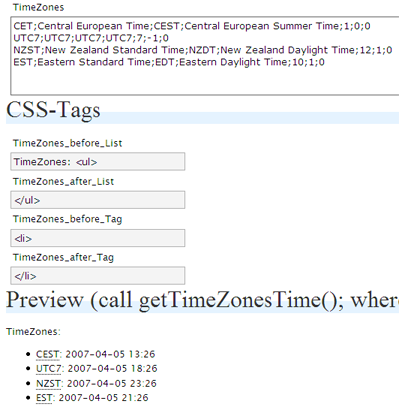
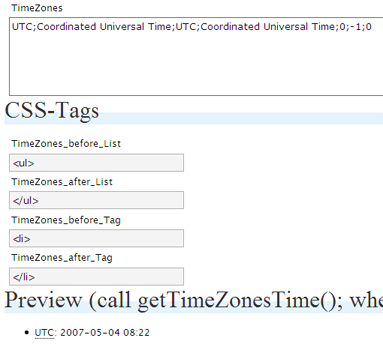
git-svn-id: https://plugins.svn.wordpress.org/timezonecalculator/trunk@12170 b8457f37-d9ea-0310-8a92-e5e31aec5664

Changed region(s): [[0.0, 0.0, 1.0, 1.0], [0.4595, 0.5523, 0.4883, 0.6105]]

diff --git a/timezonecalculator.php b/timezonecalculator.php
@@ -4,7 +4,7 @@
 Plugin Name: TimeZoneCalculator
 Plugin URI: http://www.neotrinity.at/projects/
 Description: Calculates different times and dates in timezones with respect to daylight saving on basis of utc. - Find the options <a href="/wp-admin/options-general.php?page=timezonecalculator/timezonecalculator.php">here</a>!
-Version: 0.30 (beta)
+Version: 0.31 (beta)
 Author: Bernhard Riedl
 Author URI: http://www.neotrinity.at
 */
@@ -56,7 +56,7 @@ adds metainformation - please leave this for stats!
 */
 
 function timezonecalculator_wp_head() {
-  echo("<meta name=\"TimeZoneCalculator\" content=\"0.30\" />\n");
+  echo("<meta name=\"TimeZoneCalculator\" content=\"0.31\" />\n");
 }
 
 /*
@@ -330,6 +330,7 @@ Option Page
 function createTimeZoneCalculatorOptionPage() {
 
     $csstags=array("TimeZones_before_List", "TimeZones_after_List", "TimeZones_before_Tag", "TimeZones_after_Tag");
+    $csstags_defaults=array("<ul>", "</ul>", "<li>", "</li>");
 
     /*
     configuration changed => store parameters
@@ -345,7 +346,20 @@ function createTimeZoneCalculatorOptionPage() {
 
         ?><div class="updated"><p><strong>
         <?php _e('Configuration changed!')?></strong></p></div>
-     <?php }?>
+      <?php }
+
+      elseif (isset($_POST['load_default'])) {
+
+        for ($i = 0; $i < sizeof($csstags); $i++) {
+            update_option($csstags[$i], $csstags_defaults[$i]);
+        }
+
+        update_option('TimeZones', 'UTC;Coordinated Universal Time;UTC;Coordinated Universal Time;0;-1;0');
+
+        ?><div class="updated"><p><strong>
+        <?php _e('Defaults loaded!')?></strong></p></div>
+
+      <?php } ?>
 
      <?php
      /*
@@ -417,7 +431,10 @@ function createTimeZoneCalculatorOptionPage() {
 		<?php getTimeZonesTime(); ?>
 
     <div class="submit">
-      <input type="submit" name="info_update" value="<?php _e('Update options') ?>" /></div>
+      <input type="submit" name="info_update" value="<?php _e('Update options') ?>" />
+      <input type="submit" name="load_default" value="<?php _e('Load defaults') ?>" />
+    </div>
+
     </form>
     </div>
 
